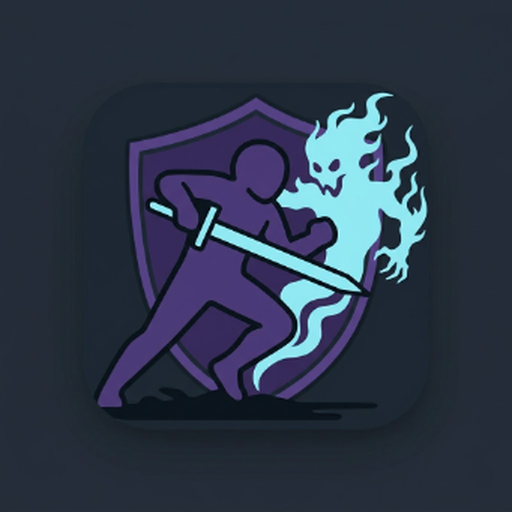
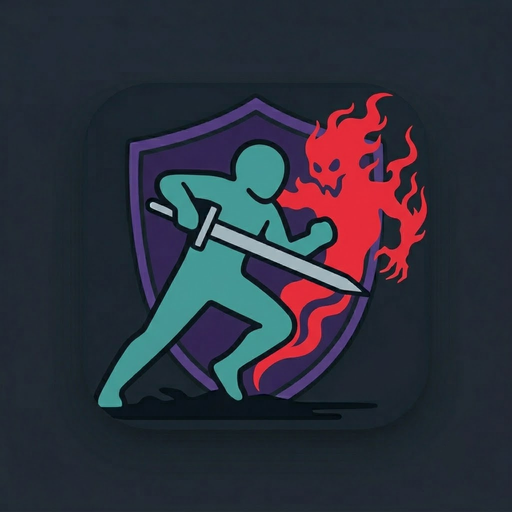
Add files via upload

Changed region(s): [[0.1875, 0.1562, 0.8438, 0.8125]]

diff --git a/index.html b/index.html
@@ -3,7 +3,7 @@
 <head>
     <meta charset="UTF-8">
     <meta name="viewport" content="width=device-width, initial-scale=1.0, viewport-fit=cover">
-    <title>Phantom Slayer Setup Guide v1.6.63</title>
+    <title>Phantom Slayer Setup Guide v1.6.64</title>
     
     <!-- PWA & Mobile Optimization Meta Tags -->
     <meta name="theme-color" content="#0a0a0a">
@@ -478,7 +478,7 @@
         // Locales dictionary
         const locales = {
             en: {
-                title: "Phantom Slayer Setup Guide v1.6.63",
+                title: "Phantom Slayer Setup Guide v1.6.64",
                 prev: "Prev",
                 next: "Next",
                 copyLabel: "Copy Command",
@@ -531,7 +531,7 @@
                 ]
             },
             he: {
-                title: "Phantom Slayer Setup Guide v1.6.63",
+                title: "Phantom Slayer Setup Guide v1.6.64",
                 prev: "הקודם",
                 next: "הבא",
                 copyLabel: "העתק פקודה",

diff --git a/service-worker.js b/service-worker.js
@@ -1,4 +1,4 @@
-const CACHE_NAME = 'phantom-setup-v63';
+const CACHE_NAME = 'phantom-setup-v64';
 const ASSETS = [
   'index.html',
   'manifest.json',